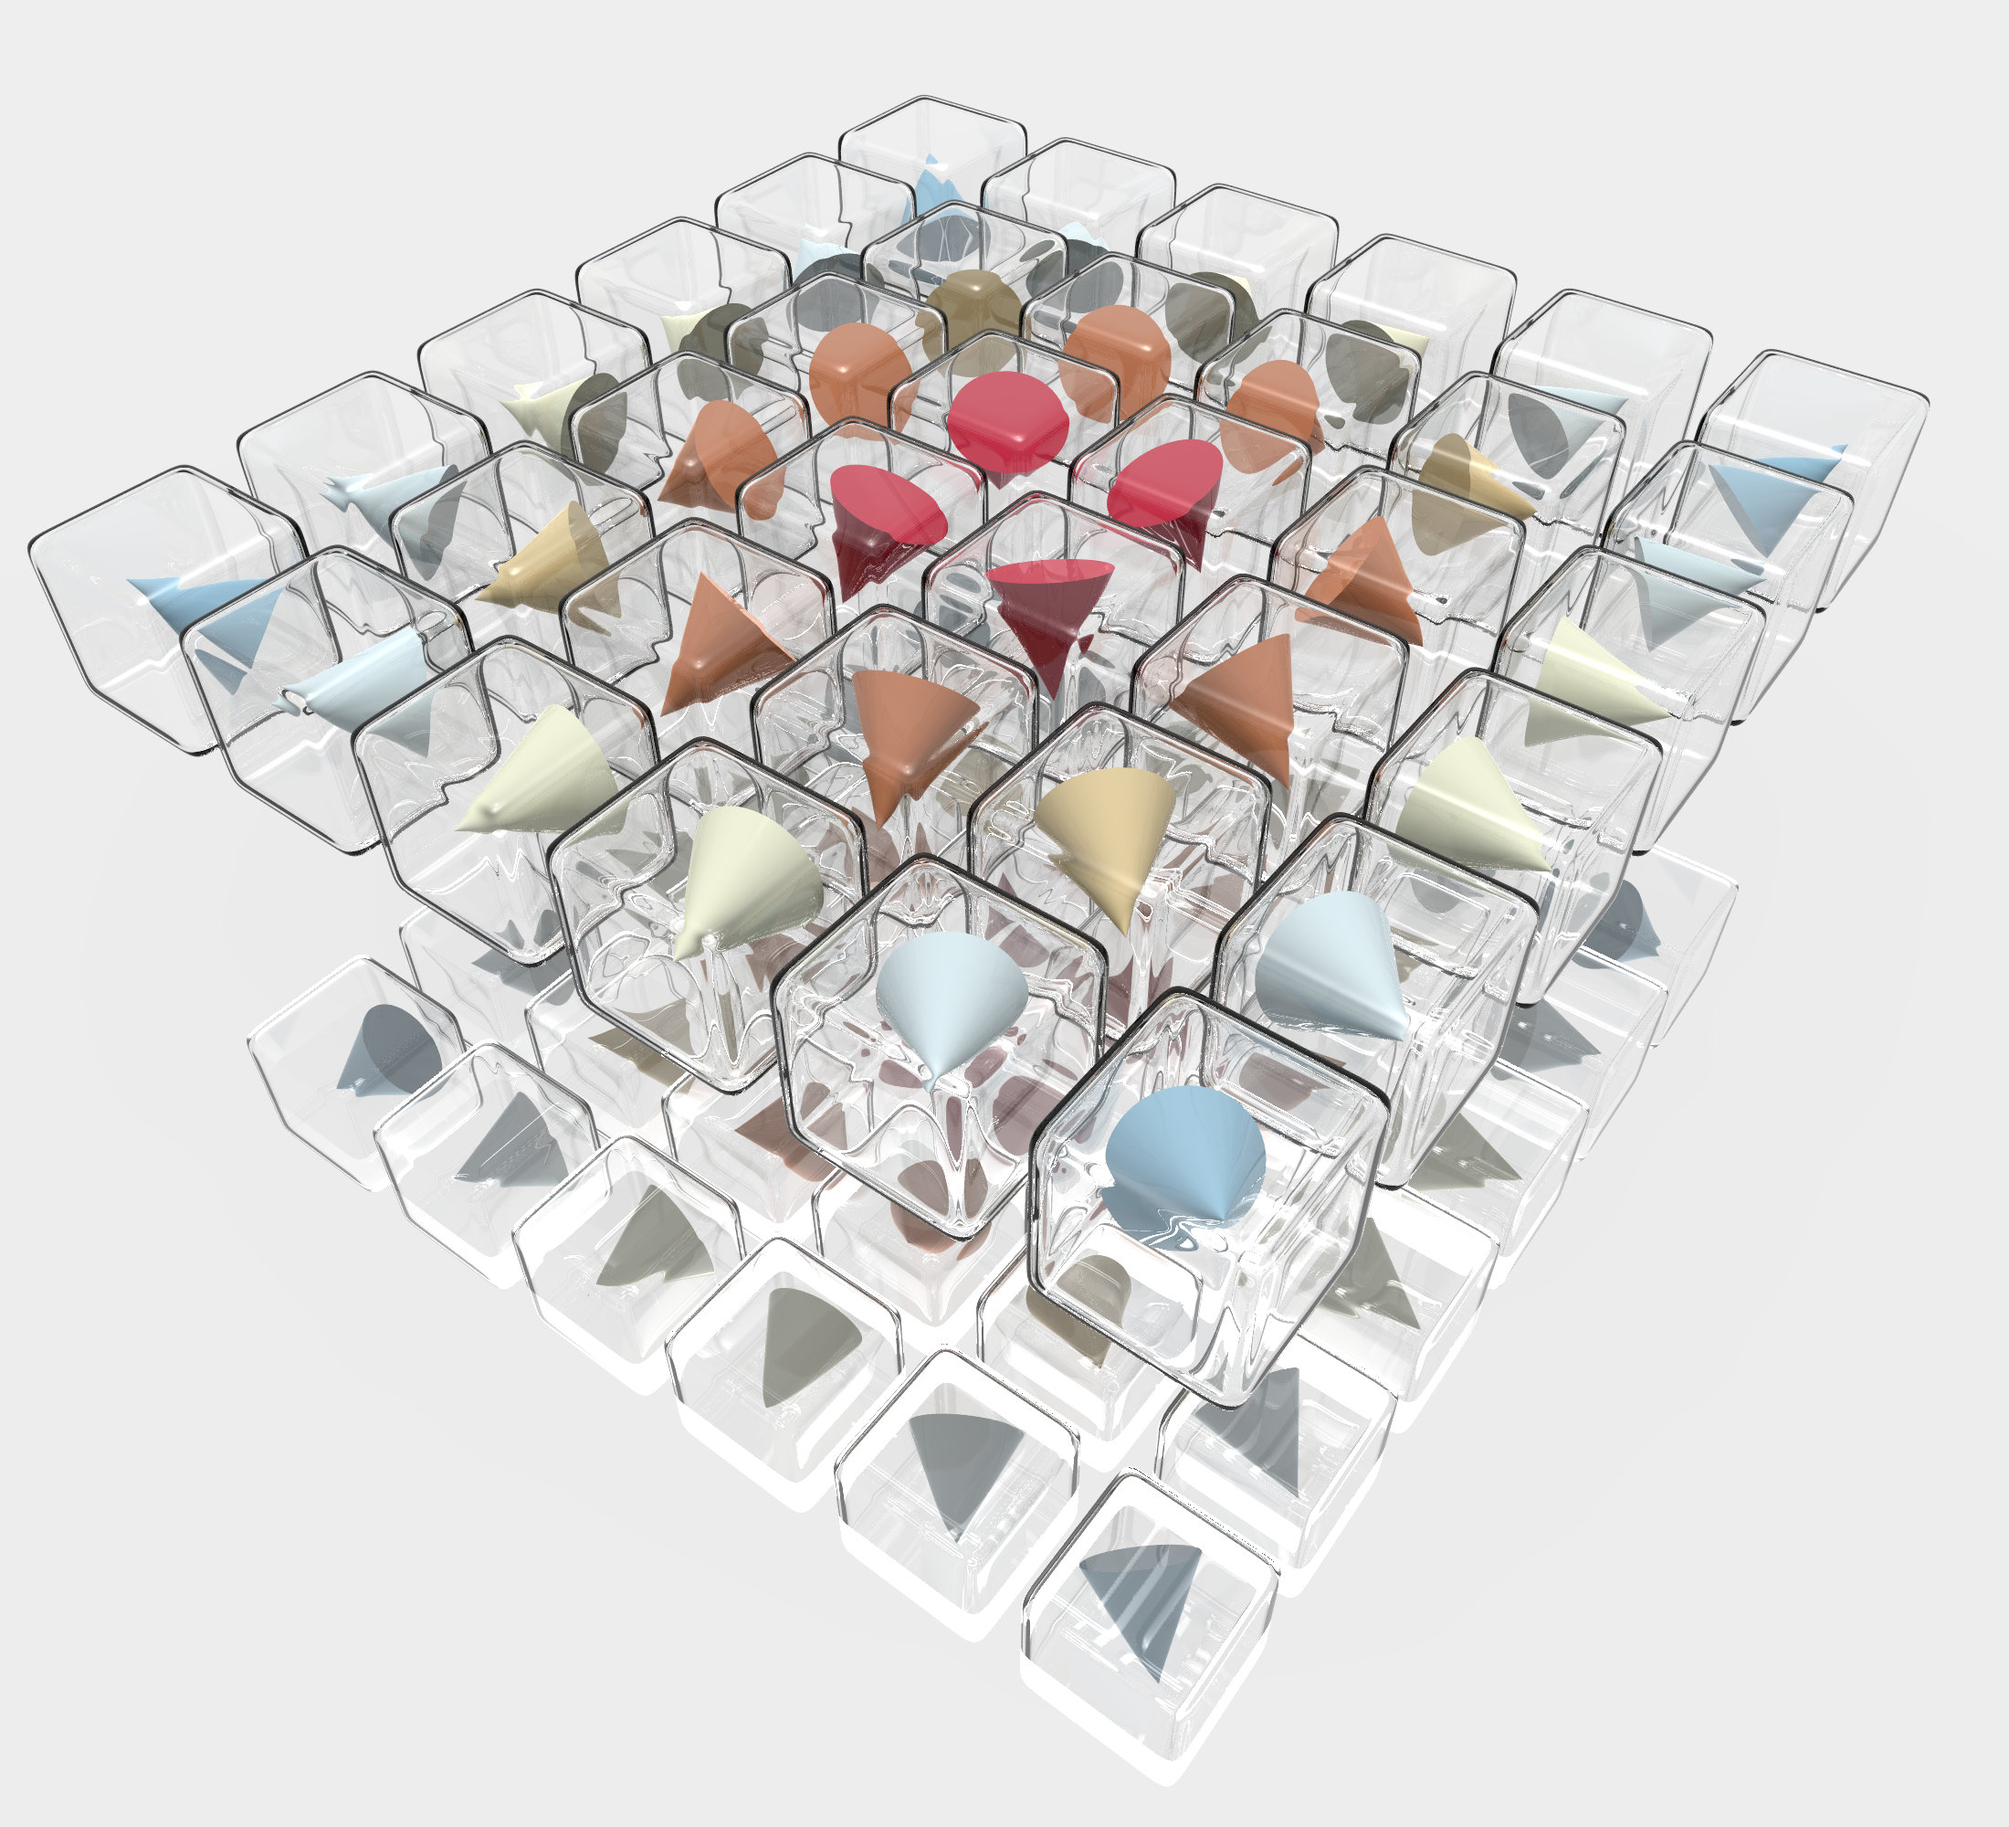
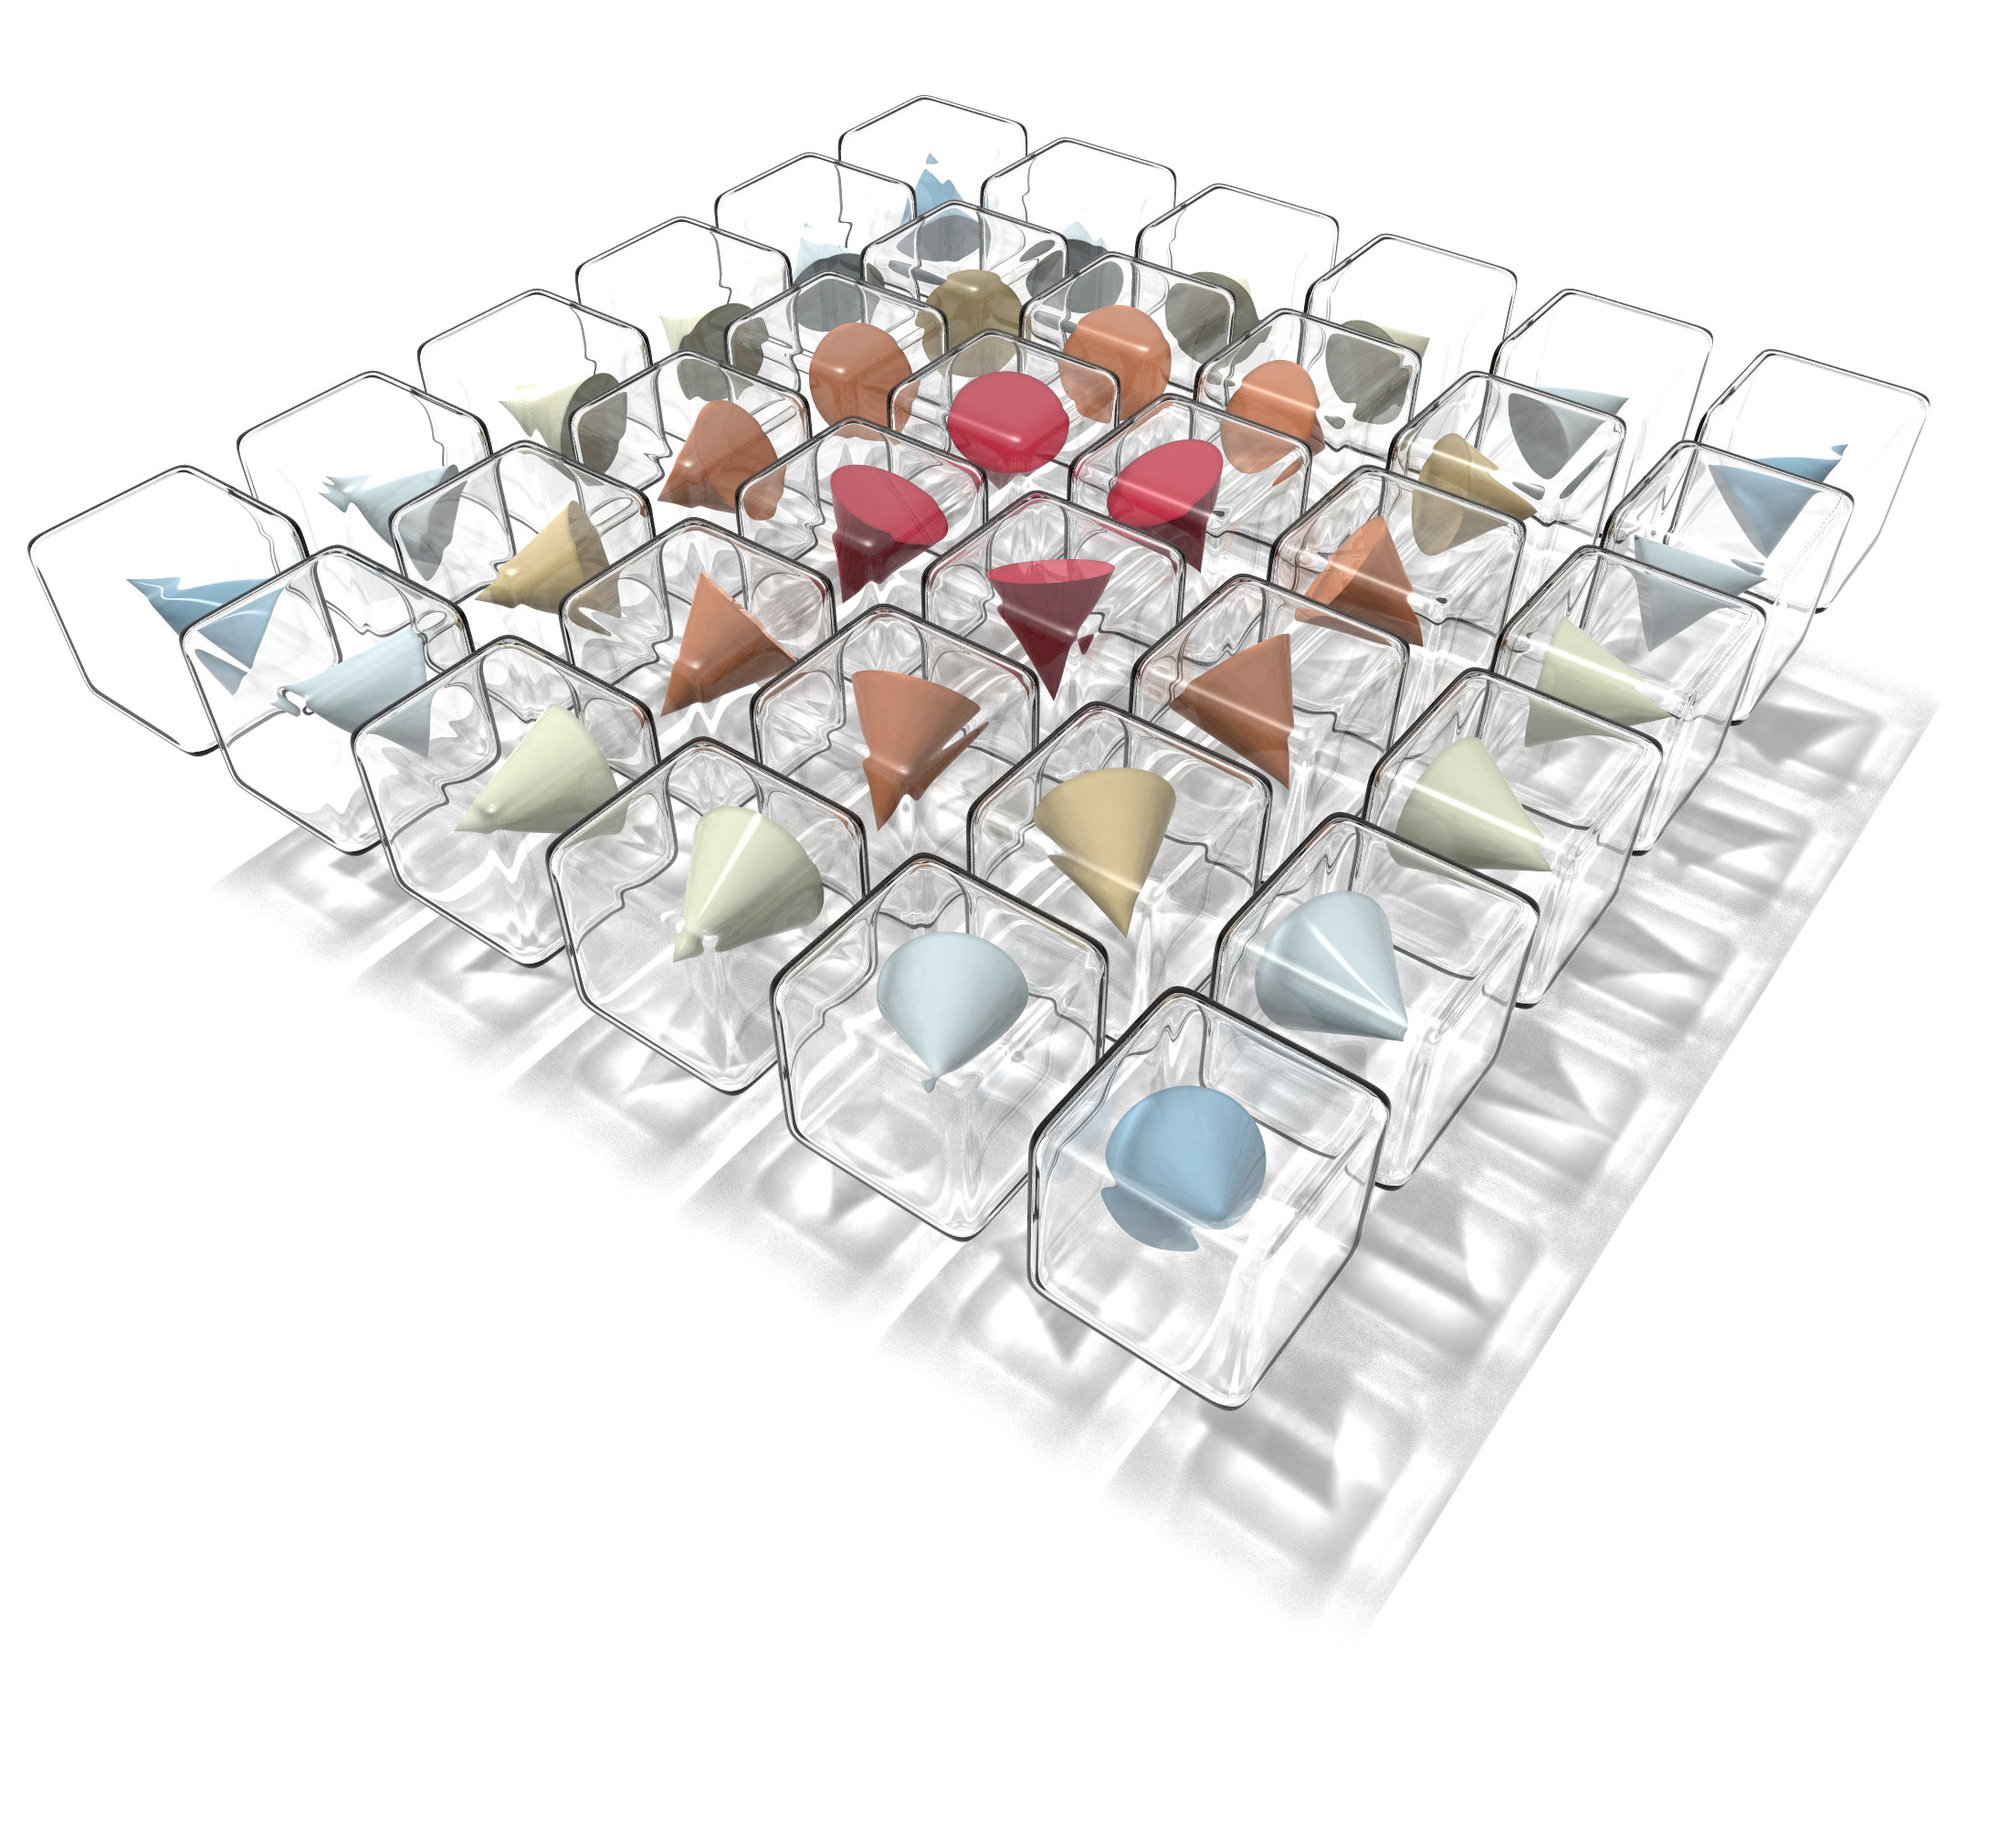
Updated figure and text layout

Changed region(s): [[0.0, 0.062, 0.9582, 0.961]]

diff --git a/styles/main.css b/styles/main.css
@@ -6,7 +6,7 @@
 }
 
 .cover .container .top {
-    height: 88vh;
+    height: 85vh;
     font-size: 10vh;
     /* background-color: #000000; */
 }
@@ -25,11 +25,11 @@
     background-size: auto 80%;
     background-position: center;
     position: relative;
-    background-color: #EEEEEE;
+    background-color: #FFFFFF;
 }
 
 .cover .container .bottom {
-    height: 6vh;
+    height: 9vh;
     font-size: 3vh;
     /* background-color: #000000; */
 }
